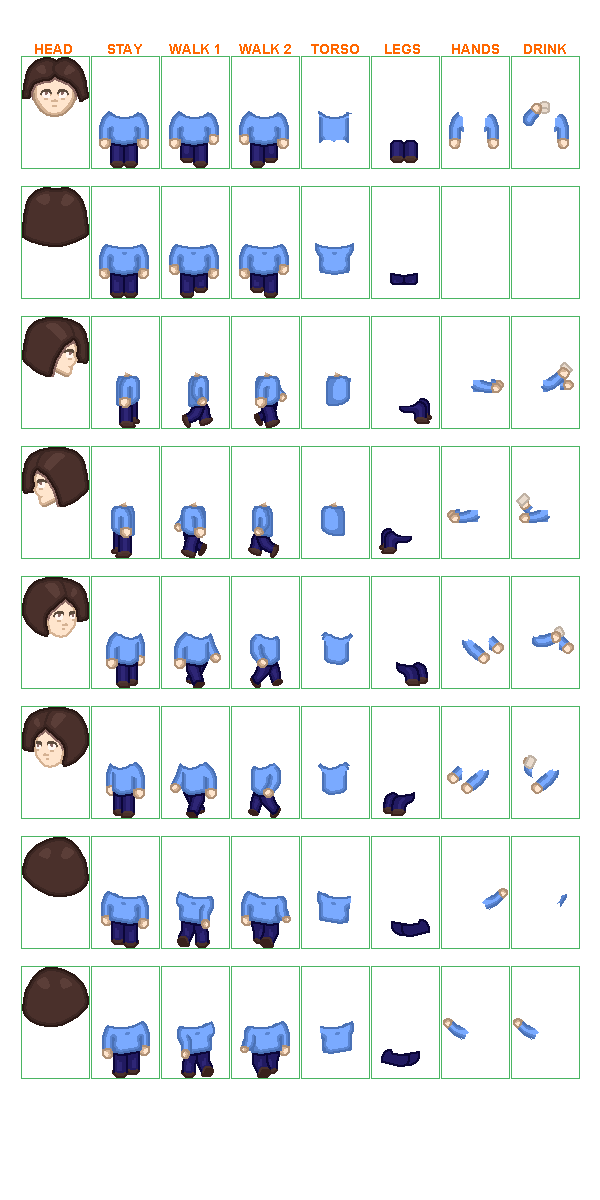
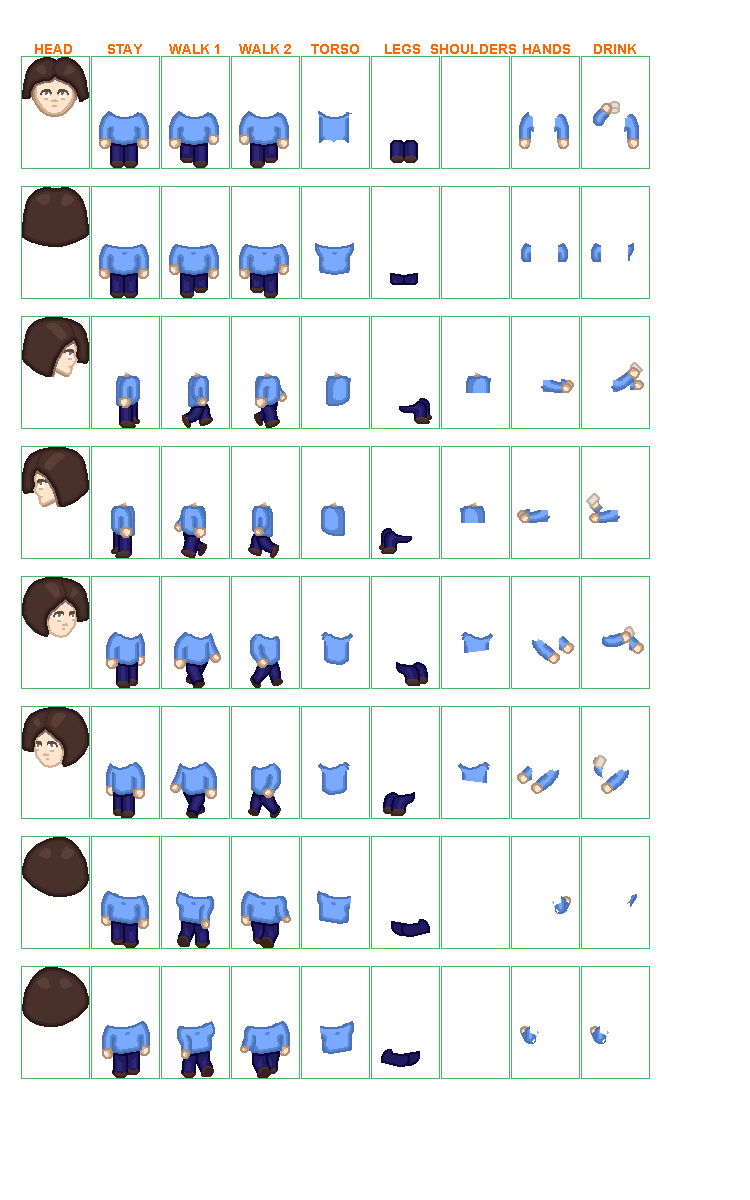
improved character atlas; shoulders draw method added; drink animation added, cup disappear from table for this time

diff --git a/Objects/skins.py b/Objects/skins.py
@@ -8,64 +8,72 @@ coordinates = {'вниз' : {'голова' : (22, 57, 67, 111),
                          False : (232, 57, 67, 111),
                          'торс': (302, 57, 67, 111),
                          'ноги': (372, 57, 67, 111),
-                         'руки': (442, 57, 67, 111),
-                         'пьет': (512, 57, 67, 111)},
+                         'плечи': (442, 57, 67, 111),
+                         'руки': (512, 57, 67, 111),
+                         'пьет': (582, 57, 67, 111)},
                'вверх': {'голова' : (22, 187, 67, 111),
                          'тело' : (92, 187 , 67, 111),
                          True : (162, 187, 67, 111),
                          False : (232, 187, 67, 111),
                          'торс': (302, 187, 67, 111),
                          'ноги': (372, 187, 67, 111),
-                         'руки': (442, 187, 67, 111),
-                         'пьет': (512, 187, 67, 111)},
+                         'плечи': (442, 187, 67, 111),
+                         'руки': (512, 187, 67, 111),
+                         'пьет': (582, 187, 67, 111)},
                'вправо' : {'голова' : (22, 317, 67, 111),
                          'тело' : (92, 317 , 67, 111),
                          True : (162, 317, 67, 111),
                          False : (232, 317, 67, 111),
                          'торс': (302, 317, 67, 111),
                          'ноги': (372, 317, 67, 111),
-                         'руки': (442, 317, 67, 111),
-                         'пьет': (512, 317, 67, 111)},
+                         'плечи': (442, 317, 67, 111),
+                         'руки': (512, 317, 67, 111),
+                         'пьет': (582, 317, 67, 111)},
                'влево' : {'голова' : (22, 447, 67, 111),
                          'тело' : (92, 447 , 67, 111),
                          True : (162, 447, 67, 111),
                          False : (232, 447, 67, 111),
                          'торс': (302, 447, 67, 111),
                          'ноги': (372, 447, 67, 111),
-                         'руки': (442, 447, 67, 111),
-                         'пьет': (512, 447, 67, 111)},
+                         'плечи': (442, 447, 67, 111),
+                         'руки': (512, 447, 67, 111),
+                         'пьет': (582, 447, 67, 111)},
                'вниз-вправо' : {'голова' : (22, 577, 67, 111),
                          'тело' : (92, 577 , 67, 111),
                          True : (162, 577, 67, 111),
                          False : (232, 577, 67, 111),
                          'торс': (302, 577, 67, 111),
                          'ноги': (372, 577, 67, 111),
-                         'руки': (442, 577, 67, 111),
-                         'пьет': (512, 577, 67, 111)},
+                         'плечи': (442, 577, 67, 111),
+                         'руки': (512, 577, 67, 111),
+                         'пьет': (582, 577, 67, 111)},
                'вниз-влево' : {'голова' : (22, 707, 67, 111),
                          'тело' : (92, 707 , 67, 111),
                          True : (162, 707, 67, 111),
                          False : (232, 707, 67, 111),
                          'торс': (302, 707, 67, 111),
                          'ноги': (372, 707, 67, 111),
-                         'руки': (442, 707, 67, 111),
-                         'пьет': (512, 707, 67, 111)},
+                         'плечи': (442, 707, 67, 111),
+                         'руки': (512, 707, 67, 111),
+                         'пьет': (582, 707, 67, 111)},
                'вверх-вправо' : {'голова' : (22, 837, 67, 111),
                          'тело' : (92, 837 , 67, 111),
                          True : (162, 837, 67, 111),
                          False : (232, 837, 67, 111),
                          'торс': (302, 837, 67, 111),
                          'ноги': (372, 837, 67, 111),
-                         'руки': (442, 837, 67, 111),
-                         'пьет': (512, 837, 67, 111)},
+                         'плечи': (442, 837, 67, 111),
+                         'руки': (512, 837, 67, 111),
+                         'пьет': (582, 837, 67, 111)},
                'вверх-влево' : {'голова' : (22, 967, 67, 111),
                          'тело' : (92, 967 , 67, 111),
                          True : (162, 967, 67, 111),
                          False : (232, 967, 67, 111),
                          'торс': (302, 967, 67, 111),
                          'ноги': (372, 967, 67, 111),
-                         'руки': (442, 967, 67, 111),
-                         'пьет': (512, 967, 67, 111)},
+                         'плечи': (442, 967, 67, 111),
+                         'руки': (512, 967, 67, 111),
+                         'пьет': (582, 967, 67, 111)},
                }
 
 

diff --git a/Objects/characters.py b/Objects/characters.py
@@ -29,6 +29,7 @@ class Sub_character:
         self.on_chair = False
         self.chair = None
         self.have_a_deal = False
+        self.deal_kind = 'сидит'
         self.on_interactive = False
         self.his_interactive = None
         self.staing = 0
@@ -124,8 +125,13 @@ class Sub_character:
         scene_surface.blit(self.image, (self.x - 8, self.y - 62), coordinates[self.direction]['ноги'])
     def draw_torso(self, scene_surface, timer):
         scene_surface.blit(self.image, (self.x - 8, self.y - 62), coordinates[self.direction]['торс'])
+    def draw_shoulders(self, scene_surface, timer):
+        scene_surface.blit(self.image, (self.x - 8, self.y - 62), coordinates[self.direction]['плечи'])
     def draw_hands(self, scene_surface, timer):
-        scene_surface.blit(self.image, (self.x - 8, self.y - 62), coordinates[self.direction]['руки'])
+        if self.deal_kind == 'сидит':
+            scene_surface.blit(self.image, (self.x - 8, self.y - 62), coordinates[self.direction]['руки'])
+        elif self.deal_kind == 'пьет':
+            scene_surface.blit(self.image, (self.x - 8, self.y - 62), coordinates[self.direction]['пьет'])
     def draw_head(self, scene_surface, timer):
         scene_surface.blit(self.image, (self.x - 8, self.y - 62 + 4 * self.head_place), coordinates[self.direction]['голова'])
         if timer:
@@ -143,7 +149,6 @@ class Character(Sub_character):
         self.y = chair.landing_y
         self.chair = chair
         self.direction = chair.direction
-        self.deal_kind = 'сидит'
         self.stand = False
         self.on_chair = True
         self.destination = None
@@ -179,7 +184,7 @@ class Character(Sub_character):
 
     def decision(self, timer, room_map, interactive, can_go_away):
         go_away = False
-        if timer and self.on_chair and self.have_a_deal == False:
+        if timer and self.deal_kind == 'сидит':
             kind_of_decision = randint(1, 100)
             if 80 <= kind_of_decision <= 95 and len(interactive) != 0:
                 self.have_a_deal = True
@@ -194,8 +199,11 @@ class Character(Sub_character):
                 self.find_path_to_deal(room_map, self.destination)
 
 
-            if 95 < kind_of_decision <= 100 and can_go_away:
+            elif 95 < kind_of_decision <= 100 and can_go_away:
                 go_away = True
+            elif 10 <= kind_of_decision <= 20:
+                self.deal_kind = 'пьет'
+                self.staing = 3
         if self.deal_kind == 'интерактив':
             if self.have_a_deal and self.x == self.destination.x and self.y == self.destination.y:
                 self.have_a_deal = False
@@ -215,12 +223,18 @@ class Character(Sub_character):
                 self.direction = self.chair.direction
                 self.x = self.chair.landing_x
                 self.y = self.chair.landing_y
+        elif self.deal_kind == 'пьет':
+            if self.staing > 0 and timer:
+                self.staing += -1
+            elif self.staing == 0:
+                self.deal_kind = 'сидит'
 
         return  interactive, go_away
 
     def draw_tablethings (self, scene_surface):
 
-        scene_surface.blit(self.cup_image, self.cup_coordinates)
+        if self.deal_kind != 'пьет':
+            scene_surface.blit(self.cup_image, self.cup_coordinates)
         if self.laptop:
             scene_surface.blit(self.laptop_image, self.laptop_coordinates)
         elif self.book:
@@ -233,11 +247,11 @@ class Character(Sub_character):
             scene_surface.blit(self.water_image, self.water_coordinates)
 
 
-    # for el in self.all_coordinates:
-        #     pygame.draw.circle(scene_surface, 'Red', (el[0] * 4 + place_data[self.chair.number][0][0], el[1] * 4 + place_data[self.chair.number][0][1]), 1)
-        # for el in self.free_coordinates:
-        #     # scene_surface.blit(self.cup_image, (el[0] * 4 + place_data[self.chair.number][0][0], el[1] * 4 + place_data[self.chair.number][0][1]))
-        #     pygame.draw.circle(scene_surface, 'Green', (el[0] * 4 + place_data[self.chair.number][0][0], el[1] * 4 + place_data[self.chair.number][0][1]), 1)
+        # for el in self.all_coordinates:
+            #     pygame.draw.circle(scene_surface, 'Red', (el[0] * 4 + place_data[self.chair.number][0][0], el[1] * 4 + place_data[self.chair.number][0][1]), 1)
+            # for el in self.free_coordinates:
+            #     # scene_surface.blit(self.cup_image, (el[0] * 4 + place_data[self.chair.number][0][0], el[1] * 4 + place_data[self.chair.number][0][1]))
+            #     pygame.draw.circle(scene_surface, 'Green', (el[0] * 4 + place_data[self.chair.number][0][0], el[1] * 4 + place_data[self.chair.number][0][1]), 1)
 
     def cup_placing (self):
         cup_index = randint(1, 8)

diff --git a/Objects/scene.py b/Objects/scene.py
@@ -67,6 +67,10 @@ class Scene:
         for object in self.characters[self.room-1]:
             if object.chair.table == table:
                 object.draw_tablethings(scene_surface)
+        # плечи
+        for object in self.characters[self.room - 1]:
+            if object.on_chair and object.chair.table == table and (object.direction in ('влево', 'вправо', 'вниз-влево', 'вниз-вправо')):
+                object.draw_shoulders(scene_surface, timer)
         # головы (сверху)
         for object in self.characters[self.room-1]:
             if object.on_chair and object.chair.table == table and (object.direction not in ('вверх-вправо', 'вверх', 'вверх-влево')):
